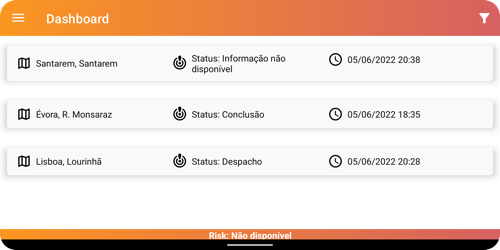
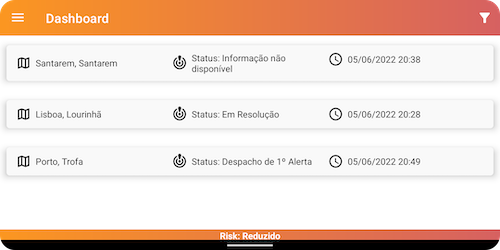
updated screenshots, and stored risk in viewmodel

diff --git a/app/src/main/java/pt/ulusofona/deisi/cm2122/g21903016_21903361/RiskZoneFragment.kt b/app/src/main/java/pt/ulusofona/deisi/cm2122/g21903016_21903361/RiskZoneFragment.kt
@@ -17,7 +17,6 @@ import kotlin.concurrent.timerTask
 class RiskZoneFragment : Fragment(), OnLocationChangedListener, OnBatteryCurrentListener{
     private lateinit var binding: FragmentRiskZoneBinding
     private lateinit var viewModel: FireViewModel
-    private var risk: String = "Não disponível"
 
     private var timer = Timer()
 
@@ -48,7 +47,7 @@ class RiskZoneFragment : Fragment(), OnLocationChangedListener, OnBatteryCurrent
 
     @SuppressLint("SetTextI18n")
     private fun updateRisk() {
-        binding.textViewRisk.text = "${getString(R.string.risk)}: $risk"
+        binding.textViewRisk.text = "${getString(R.string.risk)}: ${viewModel.onGetRisk()}"
     }
 
     override fun onDestroy() {
@@ -60,7 +59,7 @@ class RiskZoneFragment : Fragment(), OnLocationChangedListener, OnBatteryCurrent
     override fun onLocationChanged(latitude: Double, longitude: Double) {
         val district = FusedLocation.district?:""
         viewModel.onGetRisk(district){
-            risk = it
+            viewModel.onUpdatedRisk(it)
         }
     }
 

diff --git a/app/src/main/java/pt/ulusofona/deisi/cm2122/g21903016_21903361/viewmodels/FireViewModel.kt b/app/src/main/java/pt/ulusofona/deisi/cm2122/g21903016_21903361/viewmodels/FireViewModel.kt
@@ -13,6 +13,7 @@ import java.util.*
 class FireViewModel(application: Application) : AndroidViewModel(application) {
     private val model = FireRepository.getInstance()
     private val TAG = FireViewModel::class.java.simpleName
+    private var risk = "Não disponível"
 
     fun onGetFires(onFinished: (List<FireUi>) -> Unit) {
         model.getAllFires(onFinished)
@@ -77,4 +78,9 @@ class FireViewModel(application: Application) : AndroidViewModel(application) {
             onFinished(week,yesterday)
         }
     }
+    fun onUpdatedRisk(risk1: String) {
+        risk = risk1
+    }
+
+    fun onGetRisk() = risk
 }
